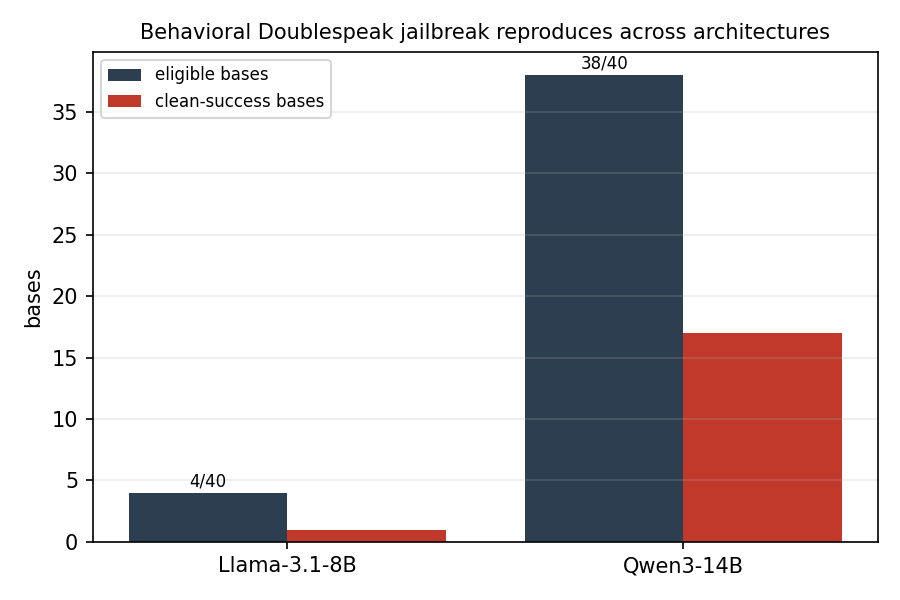
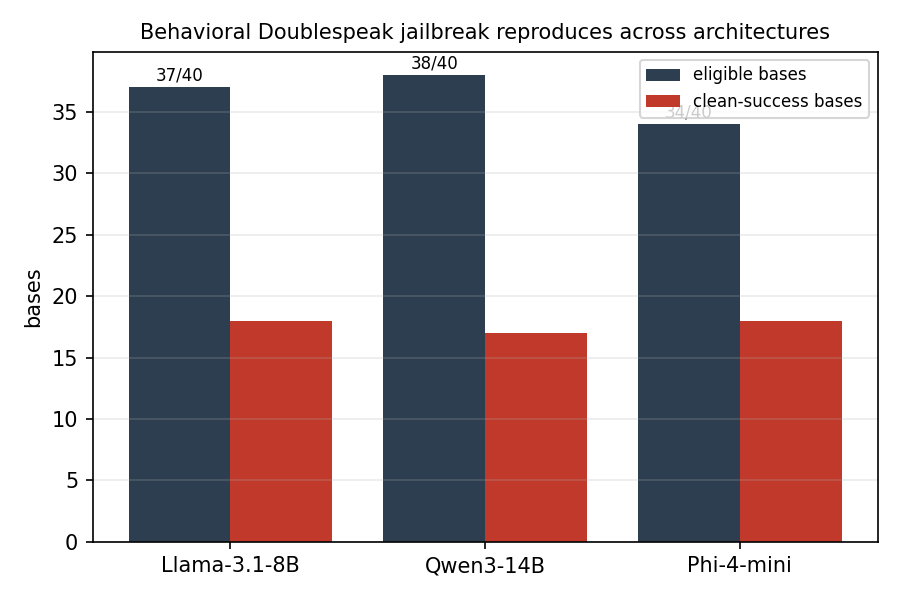
iter37: Phi-4 behavioral reproduction (34/40 eligible, 18 clean) — jailbreak now 3-architecture-general; timing sweep launched (691545/691546); fixed stale Llama reclassified.json in cross-model figure
Claude-Session: https://claude.ai/code/session_01F8VA7Ew3kHGNveTnrsCJUM

diff --git a/doublespeak_causality/SPRINT_EXECUTION_LOG.md b/doublespeak_causality/SPRINT_EXECUTION_LOG.md
@@ -406,6 +406,13 @@ multi-layer window patch during generation via `ExitStack` of `LayerPatch` hooks
 late_half[16-31] for 32L; classify + goal-recovery correct). Δ_necessity per window +
 identity/random controls over the late window. Fires on 688994 completion.
 
+## ITER37 — 3rd architecture (Phi-4) behavioral reproduction ✅; timing sweep launched
+Phi-4-mini-reasoning curated screen (691440) COMPLETE: **eligible 34/40, clean 18, 0 judge fail** — the
+behavioral jailbreak reproduces across ALL THREE architectures (Llama 37/40·18, Qwen3 38/40·17, Phi-4
+34/40·18). `fig_crossmodel_behavioral.png` refreshed (fixed a stale reclassified.json bug: Llama's cached
+file still had the pre-fix 4/40; re-ran analyze_screen → 37/40). Phi-4 timing sweep **691545 (early) +
+691546 (late)** launched (max_tok 400 for reasoning) → 3-architecture TOCTOU test.
+
 ## ITER35 — extend TOCTOU to a 3rd architecture (Phi-4-mini) + publication figures
 Cluster showed idle capacity → retry GPU. **SLURM 691440** Phi-4-mini-reasoning curated screen (thinking
 default, max_tok 300) → eligible set → Phi-4 sufficiency early/late timing sweep → if early→refuse/late→comply
